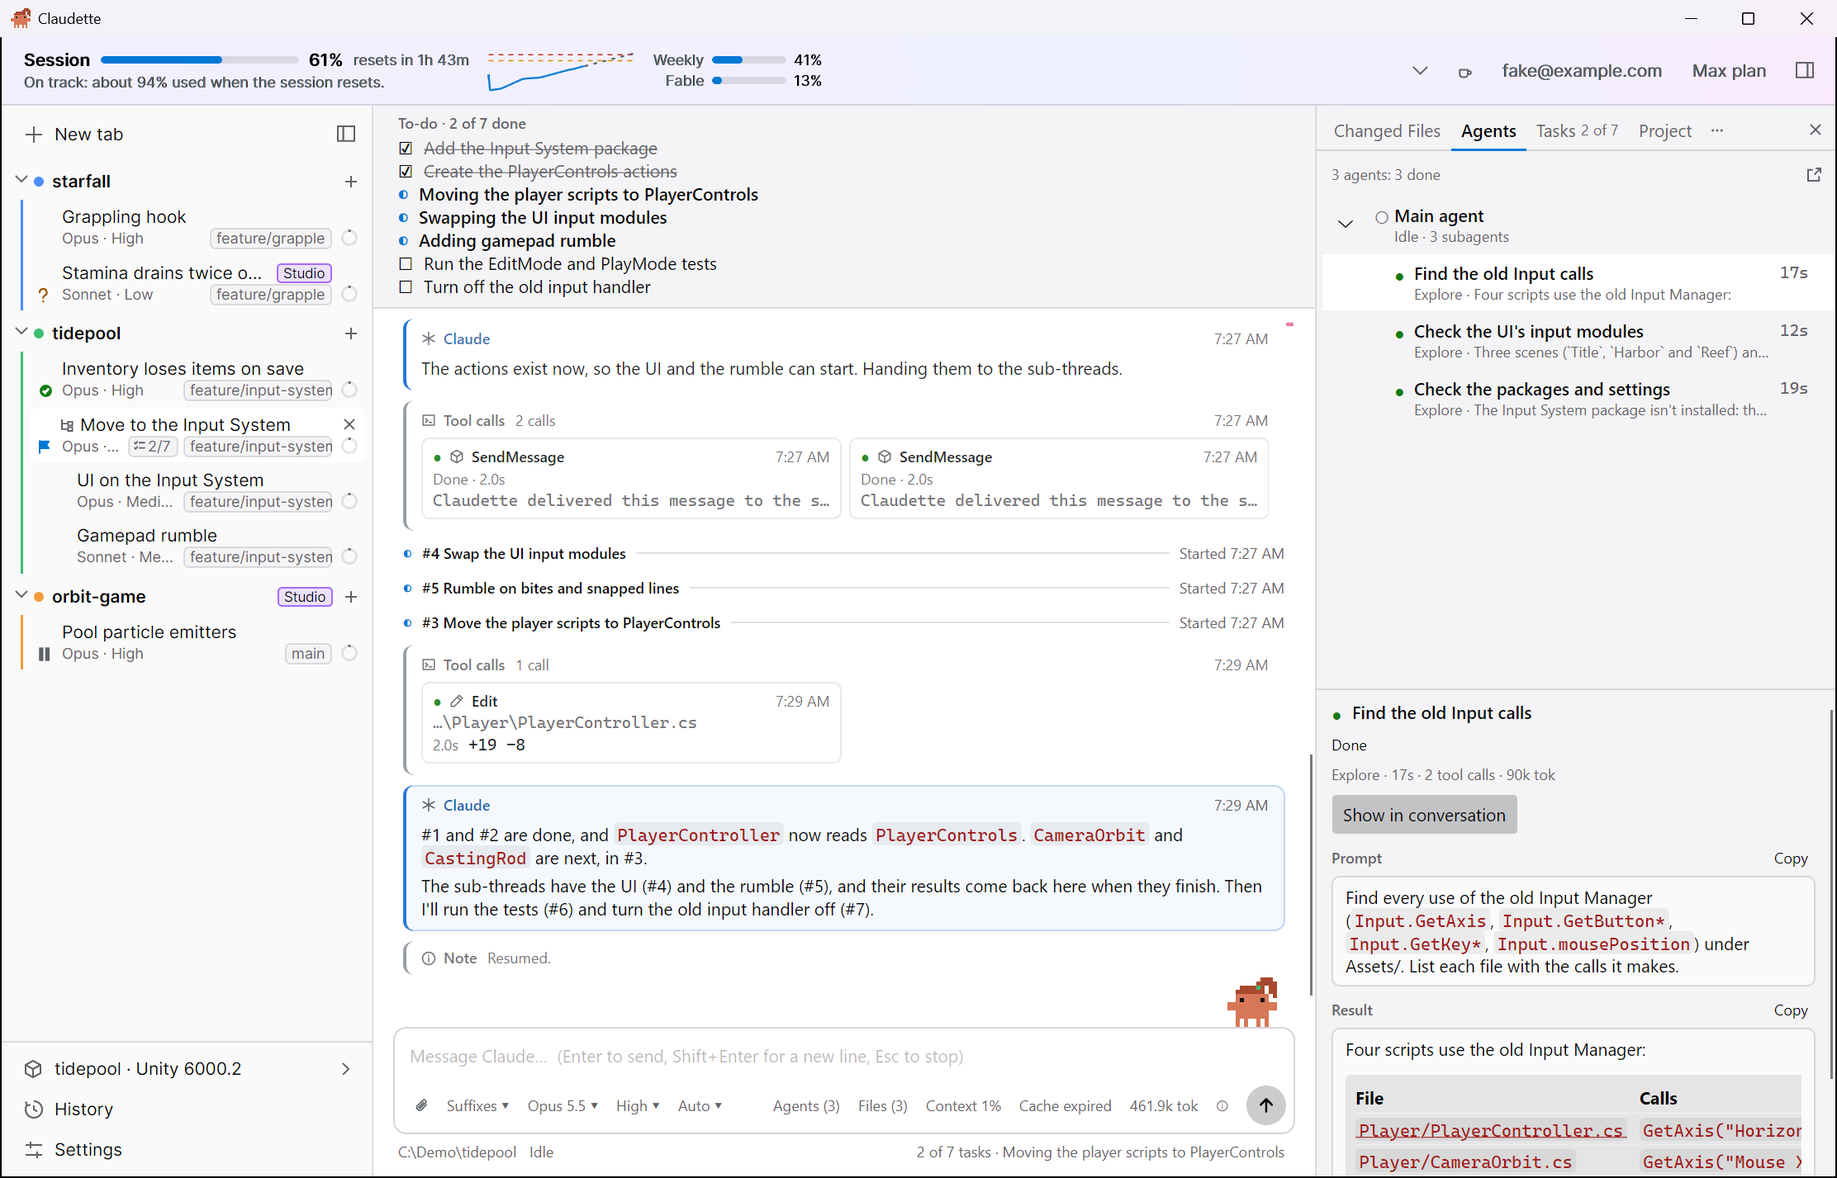
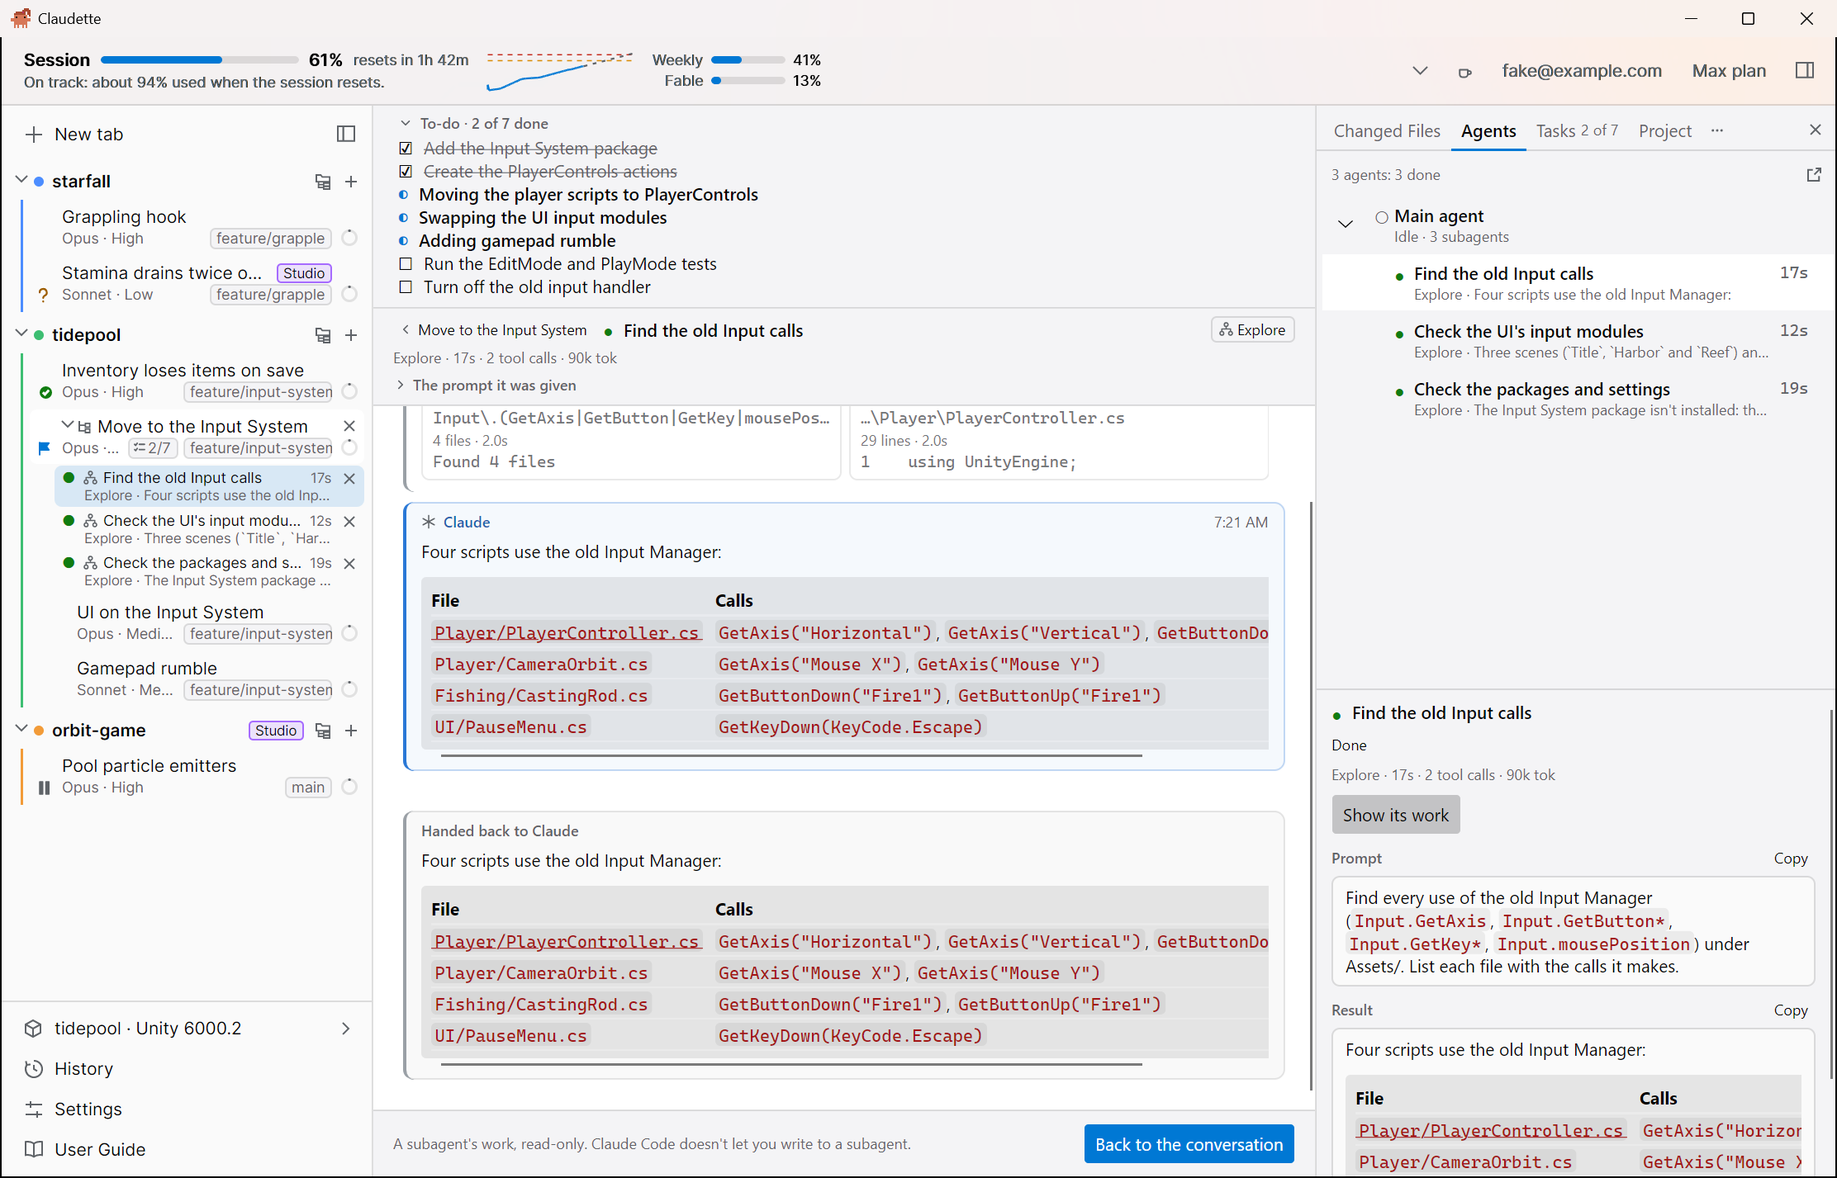
Save the state of a task list being open or closed

diff --git a/tests/Claudette.App.Tests/TaskProgressTests.cs b/tests/Claudette.App.Tests/TaskProgressTests.cs
@@ -2,6 +2,7 @@ using System.Text.Json.Nodes;
 using Claudette.App.Conversation;
 using Claudette.App.Tests.Support;
 using Claudette.App.ViewModels;
+using Claudette.Core.Settings;
 
 namespace Claudette.App.Tests;
 
@@ -294,5 +295,49 @@ public class TaskProgressTests
         Create(h, "c2", "2", "One");
         await TabTestHarness.Eventually(() => tab.TodoList.Items.Count == 2, "the new list");
         Assert.False(tab.TodoList.HasSuggestion);
+    }
+
+    [Fact]
+    public async Task Closing_the_pinned_list_is_kept_with_the_tab_until_its_tasks_are_done()
+    {
+        await using var h = new TabTestHarness();
+        var tab = await h.OpenTabAsync();
+        h.Transport.Emit(Init());
+        Create(h, "c1", "1", "Run the migration");
+        Update(h, "u1", "1", "in_progress");
+        await TabTestHarness.Eventually(() => tab.TodoList.Current is not null, "the task in progress");
+        Assert.True(tab.TodoList.IsExpanded);
+        Assert.False(tab.State.TodoListClosed);
+
+        tab.TodoList.ToggleExpandedCommand.Execute(null);
+        Assert.True(tab.State.TodoListClosed);
+
+        Update(h, "u2", "1", "completed");
+        await TabTestHarness.Eventually(() => tab.TodoList.AllDone, "the task done");
+        Assert.False(tab.State.TodoListClosed);
+    }
+
+    [Theory]
+    [InlineData(true, false)]
+    [InlineData(false, false)]
+    [InlineData(true, true)]
+    public async Task A_restored_tab_keeps_its_pinned_list_as_the_user_left_it(bool closed, bool allDone)
+    {
+        await using var h = new TabTestHarness();
+        JsonObject Todo(string content, string status) => new() { ["content"] = content, ["activeForm"] = $"Doing {content}", ["status"] = status };
+        h.WriteTranscript("s1",
+            Wire.Entry("user", "2026-09-27T09:30:00Z", new JsonObject { ["role"] = "user", ["content"] = "Migrate" }),
+            Wire.Entry("assistant", "2026-09-27T09:31:00Z", Wire.Message(ToolBlock("w1", "TodoWrite", new JsonObject
+            {
+                ["todos"] = new JsonArray(Todo("Run the migration", allDone ? "completed" : "in_progress"), Todo("Run the tests", allDone ? "completed" : "pending")),
+            }))));
+        h.Services.State.Tabs = [new TabState { Folder = h.WorkFolder, IsPinned = true, SessionId = "s1", TodoListClosed = closed }];
+        h.Shell.Restore(null);
+        var tab = h.Shell.AllTabs.Single();
+
+        await TabTestHarness.Eventually(() => tab.Status == TabStatus.Idle && tab.TodoList.HasItems, "the restored list");
+        Assert.Equal(!closed && !allDone, tab.TodoList.IsExpanded);
+        // A finished list closes by itself: nothing to keep.
+        Assert.Equal(closed && !allDone, tab.State.TodoListClosed);
     }
 }

diff --git a/src/Claudette.App/Conversation/TodoList.cs b/src/Claudette.App/Conversation/TodoList.cs
@@ -595,15 +595,28 @@ public sealed partial class TodoList : ObservableObject
     /// <summary>The one Claude is working on now, if any.</summary>
     public TodoItem? Current => Items.FirstOrDefault(i => i.IsActive);
 
+    /// <summary>
+    /// The pinned list shows its tasks, not just its line (DESIGN.md §5, "Tasks"). It opens when a list starts, or work on
+    /// a finished one starts again, and closes once every task is done; in between it stays as the user left it.
+    /// </summary>
     [ObservableProperty]
-    public partial bool IsExpanded { get; set; } = true;
+    [NotifyPropertyChangedFor(nameof(ClosedLineTask), nameof(ToggleTip))]
+    public partial bool IsExpanded { get; set; }
+
+    /// <summary>Whether the list had tasks left at its last change: it opens or closes by itself only when that changes.</summary>
+    private bool _hadTasksLeft;
 
     [CommunityToolkit.Mvvm.Input.RelayCommand]
     private void ToggleExpanded() => IsExpanded = !IsExpanded;
 
+    public string ToggleTip => IsExpanded ? "Close the list" : "Open the list";
+
     public bool HasItems => Items.Count > 0;
 
     public string Summary => $"To-do · {DoneCount} of {Items.Count} done";
+
+    /// <summary>The task in progress, on the closed list's line; null while the list is open or no task is.</summary>
+    public string? ClosedLineTask => IsExpanded ? null : Current?.DisplayText;
 
     // ---- What each task did ----------------------------------------------------------------------------------------
 
@@ -855,14 +868,13 @@ public sealed partial class TodoList : ObservableObject
         OnPropertyChanged(nameof(InfoText));
         OnPropertyChanged(nameof(StatusText));
         OnPropertyChanged(nameof(HasStatus));
-        // Collapse once everything is done, so a finished list doesn't take up room.
-        if (Items.Count > 0 && Items.All(i => i.IsDone))
+        OnPropertyChanged(nameof(ClosedLineTask));
+        // Open for a new list and closed once it's done, so a finished list doesn't take up room; a list the user closed
+        // stays closed as Claude works through it.
+        if (HasTasksLeft != _hadTasksLeft)
         {
-            IsExpanded = false;
-        }
-        else if (Items.Any(i => !i.IsDone))
-        {
-            IsExpanded = true;
+            _hadTasksLeft = HasTasksLeft;
+            IsExpanded = _hadTasksLeft;
         }
     }
 

diff --git a/tests/Claudette.App.Tests/TaskBoardTests.cs b/tests/Claudette.App.Tests/TaskBoardTests.cs
@@ -191,4 +191,36 @@ public class TaskBoardTests
         Assert.Equal("Took 2m", _list.Items[0].TimeText);
         Assert.Equal(_time.GetUtcNow(), _list.Items[1].StartedAt);
     }
+
+    [Fact]
+    public void The_pinned_list_stays_closed_as_Claude_works_through_it_and_opens_for_a_new_one()
+    {
+        _list.ApplyToolUse("w1", "TodoWrite", Json("""{"todos":[{"content":"A","activeForm":"Doing A","status":"in_progress"},{"content":"B","activeForm":"Doing B","status":"pending"}]}"""));
+        Assert.True(_list.IsExpanded);
+        Assert.Null(_list.ClosedLineTask);
+
+        // Closed, its line names the task in progress, and Claude's changes leave it closed.
+        _list.ToggleExpandedCommand.Execute(null);
+        Assert.Equal("Doing A", _list.ClosedLineTask);
+        _list.ApplyToolUse("w2", "TodoWrite", Json("""{"todos":[{"content":"A","activeForm":"Doing A","status":"completed"},{"content":"B","activeForm":"Doing B","status":"in_progress"}]}"""));
+        Assert.False(_list.IsExpanded);
+        Assert.Equal("Doing B", _list.ClosedLineTask);
+
+        // Opened again: it stays open, until every task is done.
+        _list.ToggleExpandedCommand.Execute(null);
+        Assert.Null(_list.ClosedLineTask);
+        _list.ApplyToolUse("w3", "TodoWrite", Json("""{"todos":[{"content":"A","status":"completed"},{"content":"B","status":"completed"},{"content":"C","status":"pending"}]}"""));
+        Assert.True(_list.IsExpanded);
+        _list.ApplyToolUse("w4", "TodoWrite", Json("""{"todos":[{"content":"A","status":"completed"},{"content":"B","status":"completed"},{"content":"C","status":"completed"}]}"""));
+        Assert.False(_list.IsExpanded);
+
+        // A finished list the user opens stays open as Claude reads it; a new list opens.
+        _list.ToggleExpandedCommand.Execute(null);
+        _list.ApplyToolUse("l1", "TaskList", new JsonObject());
+        _list.ApplyToolResult("l1", "", new JsonObject { ["tasks"] = new JsonArray() });
+        Assert.True(_list.IsExpanded);
+        _list.ToggleExpandedCommand.Execute(null);
+        _list.ApplyToolUse("w5", "TodoWrite", Json("""{"todos":[{"content":"D","status":"pending"}]}"""));
+        Assert.True(_list.IsExpanded);
+    }
 }

diff --git a/tests/Claudette.App.UiTests/TaskProgressUiTests.cs b/tests/Claudette.App.UiTests/TaskProgressUiTests.cs
@@ -146,4 +146,32 @@ public class TaskProgressUiTests
         Assert.Contains(texts, t => t?.StartsWith("Sent back ", StringComparison.Ordinal) == true);
         window.Close();
     }
+
+    [AvaloniaFact]
+    public async Task The_pinned_lists_line_closes_it_to_one_line_naming_the_task_in_progress()
+    {
+        await using var h = new TabTestHarness(dispatcher: new AvaloniaUiDispatcher());
+        var tab = await h.OpenTabAsync();
+        var window = UiText.Show(new ShellView { DataContext = h.Shell }, 1200, 800);
+        var view = window.GetVisualDescendants().OfType<TabView>().Single();
+        var pinned = view.GetVisualDescendants().OfType<Border>().Single(b => b.Name == "PinnedTodoList");
+
+        h.Transport.Emit(Init);
+        Create(h, "c1", "1", "Fix the config");
+        Create(h, "c2", "2", "Write the docs");
+        Tool(h, "u1", "TaskUpdate", new JsonObject { ["taskId"] = "1", ["status"] = "in_progress" });
+        await UiText.SettleUntilAsync(window, () => Texts(pinned).Contains("Write the docs"), "the open list");
+        var line = pinned.GetVisualDescendants().OfType<Button>().First();
+        var height = pinned.Bounds.Height;
+        Assert.Equal("Close the list", ToolTip.GetTip(line));
+        Assert.Equal("To-do · 0 of 2 done", AutomationProperties.GetName(line));
+        Assert.DoesNotContain("· Doing Fix the config", Texts(pinned));
+
+        line.Command!.Execute(null);
+        await UiText.SettleUntilAsync(window, () => !Texts(pinned).Contains("Write the docs"), "the closed list");
+        Assert.Equal(["To-do · 0 of 2 done", "· Doing Fix the config"], Texts(line));
+        Assert.Equal("Open the list", ToolTip.GetTip(line));
+        Assert.True(pinned.Bounds.Height < height, "Closing the list didn't make it shorter.");
+        window.Close();
+    }
 }

diff --git a/src/Claudette.App/ViewModels/TabViewModel.Tasks.cs b/src/Claudette.App/ViewModels/TabViewModel.Tasks.cs
@@ -162,11 +162,38 @@ public sealed partial class TabViewModel
                 {
                     TellMascot(mascot => mascot.AllTasksDone());
                 }
+                SaveTodoListClosed();
+                break;
+            case nameof(Conversation.TodoList.IsExpanded):
+                SaveTodoListClosed();
                 break;
             case nameof(Conversation.TodoList.Current) or nameof(Conversation.TodoList.InfoText):
                 OnPropertyChanged(nameof(RowDetail));
                 OnPropertyChanged(nameof(InfoRows));
                 break;
+        }
+    }
+
+    /// <summary>The user closed the pinned list while it has tasks left: kept with the tab, so a restart leaves it closed.</summary>
+    private void SaveTodoListClosed()
+    {
+        var closed = !TodoList.IsExpanded && TodoList.HasTasksLeft;
+        if (State.TodoListClosed != closed)
+        {
+            State.TodoListClosed = closed;
+            _services.SaveState();
+        }
+    }
+
+    /// <summary>
+    /// The pinned list as the user left it, once a restored tab's conversation is read back: reading it opens a list with
+    /// tasks left, so one they'd closed closes again.
+    /// </summary>
+    private void RestoreTodoListClosed(bool closed)
+    {
+        if (closed && TodoList.HasTasksLeft)
+        {
+            TodoList.IsExpanded = false;
         }
     }
 

diff --git a/src/Claudette.App/ViewModels/TabViewModel.cs b/src/Claudette.App/ViewModels/TabViewModel.cs
@@ -1771,6 +1771,8 @@ public sealed partial class TabViewModel : ViewModelBase, IShellTab, IAsyncDispo
             State.SessionStartedAt ??= transcript.StartedAt;
             // The agent map shows the finished tree, with no live status (DESIGN.md §18).
             Agents.IsReplaying = true;
+            // Reading the conversation back opens the pinned list; the user may have closed it.
+            var todoListClosed = State.TodoListClosed;
             // Read again after going back (DESIGN.md §5, "Rewind and branch"), the prompts are already there to recall.
             var recallPrompts = _recall.Count == 0;
             // The view hears of the earlier conversation once, as a whole, rather than once per item.
@@ -1806,6 +1808,7 @@ public sealed partial class TabViewModel : ViewModelBase, IShellTab, IAsyncDispo
                 }
             }
             RestoreChosenPlan();
+            RestoreTodoListClosed(todoListClosed);
             RefreshPromptCache();
             if (State.AutoName is null && transcript.Title is { } title)
             {

diff --git a/src/Claudette.Core/Settings/AppState.cs b/src/Claudette.Core/Settings/AppState.cs
@@ -363,6 +363,12 @@ public sealed class TabState
     /// </summary>
     public ChosenPlan? Plan { get; set; }
 
+    /// <summary>
+    /// The user closed the to-do list pinned at the top of the conversation while it had tasks left (DESIGN.md §5,
+    /// "Tasks"), so a restored tab's stays closed. Cleared when it opens again, or its tasks are done.
+    /// </summary>
+    public bool TodoListClosed { get; set; }
+
     /// <summary>The tab is a thread: other tabs in its group are its sub-threads (DESIGN.md §18, "Threads").</summary>
     public bool IsThread { get; set; }
 

diff --git a/DESIGN.md b/DESIGN.md
@@ -543,7 +543,7 @@ The conversation is drawn from Claude Code's structured output stream, not from 
 | Edit / Write | The tile shows `+added −removed`; its detail has an inline diff, **Open** for the file in the editor or the OS's app, and **Open diff** for the file in the diff view ([§8](#8-file-changes--diff-view)): from before Claude's first change in this session to the file now, as Changed files shows it. |
 | Bash | The tile shows the command; its detail has the output, in a monospace font. What git did shows as chips under it, from the result's `gitOperation`: *"Committed 1a2b3c4 on main"*, *"Pushed main"*, *"Rebased onto origin/main"*, *"Opened PR #42"* (a link to the pull request). A command that reached its time limit says so and that it carries on in the background (`timedOutAfterMs`), and one in the background says *"Running in the background"* or *"Moved to the background"* (`backgroundTaskId`, `backgroundedByUser`). |
 | Subagent (Task) | A one-line card of its own, with its result line (its report), whose click shows that agent's work in the tab ([Subagents](#subagents)). A background subagent's card stays running until it finishes. The agent map shows every subagent as a tree ([§18](#agent-map)). With Settings → Appearance → **Show subagents' work** on **In the conversation**, the card's line opens that agent's own cards under it instead. |
-| To-do list | Pinned checklist at the top of the conversation while it exists. A slim rule marks where each task starts, between cards, and a one-line **Tasks** card at the end of a turn that changed the list says where it stands ([Tasks](#tasks)). |
+| To-do list | Pinned checklist at the top of the conversation while it exists; its line closes it to that one line. A slim rule marks where each task starts, between cards, and a one-line **Tasks** card at the end of a turn that changed the list says where it stands ([Tasks](#tasks)). |
 | Claude Doc | A doc Claude writes on claude.ai with the Docs connector: a link on the call's tile, and a one-line card with **Open** at the end of the turn ([Claude Docs](#claude-docs)). |
 | Permission prompt | A card with buttons, in the caution colors while it waits; quiet once answered. See [§7](#7-permission-prompts). |
 | Errors / API retries | A one-line card: red for an error, amber for a warning. Other notes are quiet ones. |
@@ -695,6 +695,7 @@ When Claude keeps a task list (`TodoWrite`, or `TaskCreate` and `TaskUpdate`), t
 - **The plan as Claude writes it.** In Plan mode Claude writes its plan to a plan file with Write and Edit, and Claude Code lets it change no other file. So while the tab is in Plan mode, the main agent's Write or Edit to a Markdown file (`.md`) is the plan's draft. The page follows each change once it's made: a Write's `content`, or an Edit's replacement (`old_string` with `new_string`, every one with `replace_all`) made to the file as its result had it (`originalFile`), else to the draft so far. Out of Plan mode the plan file is just a file: Claude ticking items off in it after the plan was approved doesn't start a draft that's never put up. Only live: a restored tab's plans come from its versions.
 - **Versions.** Each plan is a version, numbered in the session. With more than one, the plan's header says which it shows (*"v2 of 3"*), ‹ and › step through them, and **Changes from v2** shows the version as a line diff against the one before it, in the colors of an Edit card's diff. A draft becomes a version when Claude starts writing, and stays the same version once it's put up for review; a revision after a plan is sent back is the next one. A plan still waiting when its turn ends, as when the turn is stopped, says *"Not answered"*. A new version shows as it comes, unless the user has stepped back to an earlier one.
 - **The plan's card** in the conversation ([§7](#7-permission-prompts)) says which version it is from the second on (*"Claude's plan · v2"*), with **Changes from v1**, so a revision can be reviewed by what changed.
+- **The pinned list.** Its line, *"To-do · 3 of 7 done"* with a chevron, opens and closes it. Closed, the line goes on to name the task in progress (*"· Running the tests"*), so a long list takes one line. It opens when Claude starts a list, or starts work on a finished one again, and closes once every task is done; in between it stays as the user left it, however often Claude changes the list. A list closed with tasks left is saved with the tab, so it stays closed when Claudette restarts.
 - **Suggesting a reply as the plan.** When Claude starts a new task list (the first `TodoWrite` or `TaskCreate` while the list is empty or every task in it is done), and its latest reply before that has a list of three or more items and is newer than the tab's newest plan, the pinned list asks *"Use Claude's reply from 14:03 as the plan?"*, with **Use as the plan** (as **Show as the plan** does) and **×**. It goes once answered, when a plan comes, or when the list is cleared. Only live, and not saved.
 - **Each task:** its state (to do, in progress, done), its number as Claude refers to it (*#3*, for `TaskCreate` tasks), its subject and its description, *"Waiting on #1, #2"* while a task it depends on isn't done, and a line with who's working on it when Claude says (a subagent or teammate), its time, the files changed and the tokens used while it was in progress: *Explore · Took 4m · 3 files · 120k tokens*, *Started 14:05* or *Added 14:02*. **3 files** lists them, by name with the path as the tip, and each opens in the diff view as Changed files shows it ([§8](#8-file-changes--diff-view)). Clicking a task that has started goes to where it started in the conversation.
 - The one in progress shows its active form (*"Running the tests"*) in bold.

diff --git a/docs/plans/the-tasks-page.md b/docs/plans/the-tasks-page.md
@@ -23,7 +23,7 @@ Each task shows its state (to do, in progress, done), its number as Claude refer
 
 Under a task, one line says who is working on it when Claude says (a subagent), how long it took and what it used: *Explore · Took 4m · 3 files · 120k tokens*, or *Started 14:05* while it's under way. **3 files** lists the files Claude changed while the task was in progress, and each opens in the diff view as [Changed files](../changes/changed-files.md) shows it. Work a subagent does counts toward its parent's task. Clicking a task that has started goes to where it started in the conversation.
 
-A task list that Claude keeps with a to-do tool also shows pinned at the top of the conversation, *To-do · 2 of 5 done*. Click it to open or close the list.
+Claude's task list also shows pinned at the top of the conversation, under the line *To-do · 2 of 5 done*. Click that line to close the list when it's long: closed, it's the one line, naming the task in progress, such as *To-do · 2 of 5 done · Running the tests*. It stays closed as Claude works through the tasks, and when Claudette restarts, until you open it again. It opens by itself when Claude starts a new list, and closes once every task is done.
 
 ## Tasks in the conversation
 

diff --git a/CHANGELOG.md b/CHANGELOG.md
@@ -14,6 +14,7 @@ The format follows [Keep a Changelog](https://keepachangelog.com/en/1.1.0/), and
 
 ### Changed
 
+- **Close the to-do list at the top of the conversation.** Its line has a chevron, and once you close it the list stays closed while Claude works through it, and when Claudette restarts, rather than opening again each time Claude changes it. Closed, the line names the task in progress, so a long list takes one line. It opens by itself when Claude starts a new list.
 - **Stay current and Wrap lines over a project action's log.** **Stay current** shows whether the log is following its newest line: scroll up and it turns off, so the log holds still while you read; scroll back to the end, or click it, and it follows again. Turn **Wrap lines** off and long lines stay on one line, scrolling sideways. Each new log starts as you left the last one.
 
 ## [0.4.0] - 2026-10-18
